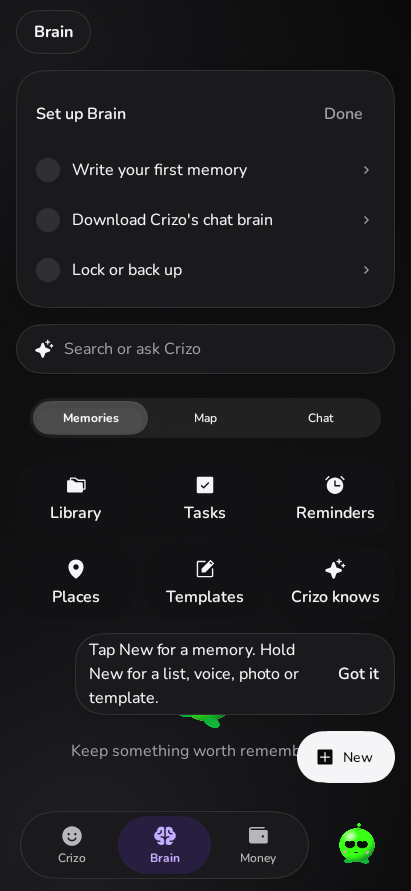
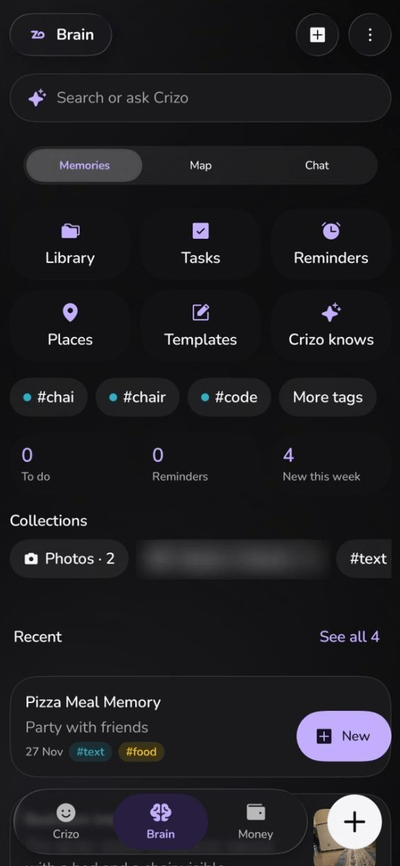
README for 0.10.10: what Crizo is, facts, features, characters, downloads from GitHub Releases, verification and FAQ; full changelog; current screenshots

diff --git a/README.md b/README.md
@@ -1,102 +1,183 @@
-<p align="center"><a href="https://crizo.criza.dev/"><img src="assets/crizo-app-banner.png" alt="Crizo for Android: Brain and Money screens beside Crizo, the green companion" width="100%"></a></p>
+<p align="center"><a href="https://crizo.criza.dev/"><img src="assets/crizo-banner.png" alt="Crizo, a free Android app for memories and money, with Crizo the green companion" width="100%"></a></p>
 
-<h1 align="center">Crizo</h1>
+<h1 align="center">Crizo for Android</h1>
 
-<p align="center"><b>A private Android app for your memories, reminders and money.</b></p>
+<p align="center"><b>A free, private Android app for your memories, reminders and money, with a friendly companion.</b></p>
 
 <p align="center">
+<a href="https://github.com/CRIZA-LABS/crizo-app/releases/latest"><img src="https://img.shields.io/github/v/release/CRIZA-LABS/crizo-app?style=flat-square&labelColor=0e3b2a&color=8af2be&label=Latest" alt="Latest release"></a>
 <a href="https://crizo.criza.dev/download"><img src="https://img.shields.io/badge/Download-Android%2013%2B-8af2be?style=flat-square&labelColor=0e3b2a" alt="Download for Android 13 or newer"></a>
-<a href="https://crizo.criza.dev/changelog"><img src="https://img.shields.io/badge/Version-0.9.9-8af2be?style=flat-square&labelColor=0e3b2a" alt="Version 0.9.9"></a>
-<a href="https://crizo.criza.dev/"><img src="https://img.shields.io/badge/Price-free%20in%20early%20access-8af2be?style=flat-square&labelColor=0e3b2a" alt="Free in early access"></a>
+<a href="https://crizo.criza.dev/"><img src="https://img.shields.io/badge/Price-free-8af2be?style=flat-square&labelColor=0e3b2a" alt="Free"></a>
 <a href="https://crizo.criza.dev/privacy"><img src="https://img.shields.io/badge/Data-on%20device%20only-8af2be?style=flat-square&labelColor=0e3b2a" alt="Data stays on the device"></a>
 </p>
 
 <p align="center">
 <a href="https://crizo.criza.dev/">Website</a> ·
-<a href="https://crizo.criza.dev/download">Download</a> ·
+<a href="https://github.com/CRIZA-LABS/crizo-app/releases/latest">Download APK</a> ·
 <a href="https://crizo.criza.dev/guide">Guides</a> ·
-<a href="https://crizo.criza.dev/changelog">Changelog</a> ·
+<a href="CHANGELOG.md">Changelog</a> ·
 <a href="https://crizo.criza.dev/privacy">Privacy</a> ·
 <a href="https://crizo.criza.dev/terms">Terms</a>
 </p>
 
-## Overview
+## What is Crizo?
 
-Crizo is a free Android app for Android 13 or newer. It records bank and UPI payments from the notifications of the
-apps you choose, turns plain words into reminders and checklists, keeps memories with places and photos, and answers
-questions about your own records. All data is stored on the device: there is no account, no advertising and no
-tracking.
+**Crizo is a free Android app that keeps your memories, reminders and money in one private place on your phone.** It
+saves bank and UPI payments automatically from the notifications of apps you choose, turns plain words like “remind me
+to call mom at 6” into reminders, keeps notes, photos and voice notes with the place they were made, and answers
+questions about your own records. A small companion, also called Crizo, keeps you company and plays games with you.
+Everything is stored on the phone: no account, no ads, no tracking.
 
 Crizo is designed and built by [AbrarAli S.](https://github.com/AbraraliS) and published by
-[Criza Labs](https://criza.dev), a software studio in Gujarat, India. The app is in early access: every feature is
-free, and users who join during early access keep every feature free.
+[Criza Labs](https://criza.dev), a software studio in Gujarat, India.
 
-This repository is the public information page for the app. The source code is not published here.
+| | |
+| --- | --- |
+| **Latest version** | 0.10.10 (version code 29), 27 November 2026 |
+| **Platform** | Android 13 or newer |
+| **Price** | Free, early access. No ads, no in-app purchases |
+| **Size** | About 36 MB; optional on-device AI models download separately on Wi-Fi |
+| **Package name** | `dev.criza.crizo` |
+| **Account** | None needed |
+| **Data** | Stored only on the phone |
+| **Official downloads** | [crizo.criza.dev/download](https://crizo.criza.dev/download) and [GitHub Releases](https://github.com/CRIZA-LABS/crizo-app/releases) |
+| **Source code** | Not published (this repository holds the app's public page and releases) |
 
 ## Features
 
 | Area | What it does |
 | --- | --- |
-| Payment capture | Reads payment alerts only from the bank, UPI or SMS apps you select, on the device. Clear payments are saved automatically; uncertain ones wait for confirmation. |
-| Quick entry | Understands plain input such as “250 lunch at Meghana's” or “1.5k Uber yesterday” and fills in the amount, date, place and category. |
-| Reminders and lists | “Remind me to call mom at 6” becomes a reminder; “buy milk, eggs and bread” becomes a checklist. |
-| Memories | Notes, photos and voice with place, tags and on-device text recognition. Optional search by meaning with an on-device model. |
-| Money overview | Monthly spending, safe to spend per day, budgets with rollover, bills, goals and insights. |
-| Assistant | Answers money questions exactly from your records. An optional AI model runs fully offline on the device. |
-| Widgets | Money, quick capture and upcoming items on the home screen. |
-| Security | Fingerprint lock, optional database encryption and password protected backups to a folder you choose. |
-| Updates | Checks crizo.criza.dev once a day and installs a new version only after you confirm. Each download is verified against a SHA-256 checksum. |
+| **Payment capture** | Reads payment alerts only from the bank, UPI or SMS apps you select, on the device. Clear payments are saved automatically; unclear ones wait for one tap. |
+| **Quick entry** | Understands “450 dinner yesterday” or “1.5k Uber” and fills in amount, date, place and category. |
+| **Money** | Monthly spending, budgets with rollover, bills, goals, people (splits and IOUs), accounts, categories, smart rules and insights. |
+| **Reminders and lists** | “Remind me to pay rent every month at 10am” becomes a repeating reminder; “buy milk, eggs and bread” becomes a checklist. |
+| **Memories** | Notes, checklists, photos and voice notes with place and tags. Text in photos is read on the device. Search forgives typos; optional search by meaning. |
+| **Voice notes** | Record with pause and resume; the words, a title and tags are written down on the phone. |
+| **Places and memory map** | Every memory keeps its place; see them on a map, or see how memories connect in a graph. |
+| **Ask Crizo** | Money questions are answered exactly from your records. An optional AI model runs fully offline on the device. |
+| **Undo, Archive and Bin** | Undo after every delete or archive. Deleted items stay 30 days in the Bin. |
+| **Companion** | Six characters, 27 accessories, daily care, six games. Can float over the phone or rest in the app. |
+| **Security** | Fingerprint lock, optional database encryption, password protected backups to a folder you choose. |
+| **Widgets** | Money, quick capture and upcoming items on the home screen. |
 
 ## Screenshots
 
 <table>
 <tr>
-<td align="center" width="25%"><img src="assets/tab-crizo.png" alt="Crizo tab with the companion's mood, energy and games" width="200"><br><sub>Crizo</sub></td>
-<td align="center" width="25%"><img src="assets/tab-brain.png" alt="Brain tab with search, library, tasks, reminders and places" width="200"><br><sub>Brain</sub></td>
-<td align="center" width="25%"><img src="assets/tab-money.png" alt="Money tab with the month total, review, budgets, bills and goals" width="200"><br><sub>Money</sub></td>
-<td align="center" width="25%"><img src="assets/setup-permissions.png" alt="Permissions step during setup" width="200"><br><sub>Setup</sub></td>
+<td align="center" width="25%"><img src="assets/tab-crizo.png" alt="Crizo tab: the companion resting, with mood, energy, food and love, and the games" width="180"><br><sub>Crizo</sub></td>
+<td align="center" width="25%"><img src="assets/tab-money.png" alt="Money sections: budgets, bills, goals, people, accounts, categories, rules, review, import, capture and Bin" width="180"><br><sub>Money</sub></td>
+<td align="center" width="25%"><img src="assets/quick-add.png" alt="Quick add a payment in plain words, with spent, received and transfer" width="180"><br><sub>Quick add</sub></td>
+<td align="center" width="25%"><img src="assets/tab-brain.png" alt="Brain: search, library, tasks, reminders, places, templates and collections" width="180"><br><sub>Brain</sub></td>
+</tr>
+<tr>
+<td align="center"><img src="assets/memory.png" alt="A memory with a photo described on the device, its place and tags" width="180"><br><sub>Memory</sub></td>
+<td align="center"><img src="assets/games.png" alt="Six games: Catch, Hide-and-seek, Ball, Treat Toss, Balloon Pop and Tickle" width="180"><br><sub>Games</sub></td>
+<td align="center"><img src="assets/customize.png" alt="Customize: moods, size, jelly bounce, colours and energy" width="180"><br><sub>Customize</sub></td>
+<td></td>
 </tr>
 </table>
 
-## Installation
+## Characters
 
-1. Open [crizo.criza.dev/download](https://crizo.criza.dev/download) on an Android phone and download the APK.
-2. Allow installs from your browser when Android asks. If Google Play Protect asks, choose *Scan app* or
-   *Install anyway*.
-3. Open Crizo and allow the permissions you want: notifications, location, on-time reminders and payment alerts.
+<p align="center"><img src="assets/characters.png" alt="The six Crizo characters: Crizo, Kiko, Momo, Bolt, Mochi and Wisp" width="100%"></p>
 
-If Android shows **Restricted setting** when you allow payment alerts, open *App info* for Crizo, tap the menu at the
-top right, choose *Allow restricted settings*, and allow access again. The
-[installation guide](https://crizo.criza.dev/guide/install-and-update) covers each step.
+| Character | Personality |
+| --- | --- |
+| Crizo | Playful and bouncy, loves to climb and dance |
+| Kiko | Calm and curious, floats, thinks and sits with you |
+| Momo | Sleepy and cuddly, naps in sunny spots and sits close |
+| Bolt | Eager little robot, always busy and on the move |
+| Mochi | Bouncy jelly, hops everywhere and loves to dance |
+| Wisp | Quiet and dreamy, drifts about and naps on the ceiling |
 
-## Requirements
+Each character can wear 27 accessories, from a party hat to a Viking helmet. See the
+[characters and outfits guide](https://crizo.criza.dev/guide/characters-and-outfits).
 
-- Android 13 or newer
-- About 40 MB of storage for the app; optional AI models are downloaded separately on Wi-Fi
+## Download and install
 
-## Privacy
+**Option 1: website.** Open [crizo.criza.dev/download](https://crizo.criza.dev/download) on your phone.
 
-Crizo processes everything on the device. Criza Labs does not run a server that receives your memories, messages or
-financial data. See the [privacy policy](https://crizo.criza.dev/privacy) and [terms of use](https://crizo.criza.dev/terms).
+**Option 2: GitHub Releases.** Download `crizo-<version>.apk` from the
+[latest release](https://github.com/CRIZA-LABS/crizo-app/releases/latest). Older versions are kept in
+[all releases](https://github.com/CRIZA-LABS/crizo-app/releases).
+
+**Option 3: automatic updates with Obtainium.** In [Obtainium](https://github.com/ImranR98/Obtainium), add the app
+URL `https://github.com/CRIZA-LABS/crizo-app`. Crizo also checks crizo.criza.dev once a day and offers new versions
+itself, so you do not need Obtainium to stay up to date.
+
+Then:
+
+1. Allow installs from your browser or file manager when Android asks. If Google Play Protect asks, choose
+   *Scan app* or *Install anyway*.
+2. Open Crizo and allow only the permissions you want.
+3. If Android shows **Restricted setting** when you allow payment alerts, open *App info* for Crizo, tap the menu at
+   the top right, choose *Allow restricted settings*, and allow access again.
+
+The [installation guide](https://crizo.criza.dev/guide/install-and-update) covers each step.
+
+### Verify a download
+
+Every release lists the APK's SHA-256 checksum, and all versions are signed with the same key.
+
+| | |
+| --- | --- |
+| Signing certificate SHA-1 | `0E:73:A3:80:3B:7A:B3:AE:2C:40:4A:31:5C:DF:C2:16:C2:08:D4:D7` |
+
+```sh
+sha256sum crizo-0.10.10.apk
+```
+
+Compare the result with the checksum in the release notes. Android refuses an update signed with a different key.
+
+## Guides
+
+- [Getting started](https://crizo.criza.dev/guide/getting-started)
+- [Install, permissions and updates](https://crizo.criza.dev/guide/install-and-update)
+- [How payment capture works](https://crizo.criza.dev/guide/payment-capture)
+- [Ask Crizo about your own life](https://crizo.criza.dev/guide/ask-crizo)
+- [Characters, outfits and games](https://crizo.criza.dev/guide/characters-and-outfits)
+- [Undo, Archive and the Bin](https://crizo.criza.dev/guide/undo-archive-bin)
+- [Voice notes, places and the memory map](https://crizo.criza.dev/guide/voice-notes-and-places)
+- [Widgets and shortcuts](https://crizo.criza.dev/guide/widgets-and-shortcuts)
 
 ## Frequently asked questions
 
+**What is Crizo?**
+A free Android app by Criza Labs for memories, reminders and money, with a companion. It saves bank and UPI payments
+automatically and keeps all data on the phone.
+
 **Is Crizo free?**
-Yes. Every feature is free during early access, and early users keep every feature free.
+Yes. Crizo is free in early access, with no ads and no in-app purchases. Early users keep every feature free.
 
-**Is Crizo available on Google Play?**
-Not yet. The official download is [crizo.criza.dev](https://crizo.criza.dev/download), and the app updates itself
-from there.
+**Is Crizo safe to install from GitHub or the website?**
+Yes, when you download from crizo.criza.dev or this repository's releases. Each APK is signed with the same key and
+listed with its SHA-256 checksum, so you can check the file is the original.
 
-**Does Crizo upload my bank messages?**
-No. Payment alerts are read on the device, only from the apps you select.
+**Is Crizo on Google Play?**
+Not yet. Download it from [crizo.criza.dev](https://crizo.criza.dev/download) or
+[GitHub Releases](https://github.com/CRIZA-LABS/crizo-app/releases/latest). The app updates itself.
+
+**Does Crizo upload my bank messages or payments?**
+No. Payment alerts are read on the phone, only from the apps you select. Criza Labs has no server that receives your
+data.
+
+**Does Crizo work offline?**
+Yes. It uses the internet only for downloads you choose (the optional AI model, map squares) and the daily update
+check.
+
+**Which phones does Crizo support?**
+Android phones running Android 13 or newer.
+
+**Can I get an older version?**
+Yes. Every published version is in [Releases](https://github.com/CRIZA-LABS/crizo-app/releases). To go back, uninstall
+first: Android does not install an older version over a newer one.
 
 **How do I report a bug or suggest a feature?**
 Write to [crizo@criza.dev](mailto:crizo@criza.dev), or use *Settings › About › Send feedback* in the app.
 
 ## Custom apps
 
-Criza Labs builds Android apps, websites and AI automation for businesses. To discuss a custom app, visit
+Criza Labs builds Android apps, websites and AI automation for businesses. See
 [criza.dev/services/mobile-app-development](https://criza.dev/services/mobile-app-development) or
 [contact Criza Labs](https://criza.dev/contact).
 
@@ -109,4 +190,4 @@ Criza Labs builds Android apps, websites and AI automation for businesses. To di
 
 ---
 
-<sub>© 2026 Criza Labs. Crizo, its name, character and artwork belong to Criza Labs. All rights reserved.</sub>
+<sub>© 2026 Criza Labs. Crizo, its name, characters and artwork belong to Criza Labs. All rights reserved. The APK files in Releases are provided for installing the app; redistribution is not permitted without permission.</sub>

diff --git a/CHANGELOG.md b/CHANGELOG.md
@@ -1,0 +1,137 @@
+# Crizo changelog
+
+Every published version of Crizo for Android, newest first. Download any of them from
+[Releases](https://github.com/CRIZA-LABS/crizo-app/releases); the latest is always at
+[crizo.criza.dev/download](https://crizo.criza.dev/download).
+
+##  (Invalid Date)
+
+- 
+
+## 0.10.10 (27 November 2026)
+
+- Archive and Undo work from every page: archive or delete a memory and Undo shows right away, wherever you are.
+- Archived memories are kept in Brain, Library, Archive. Open one and tap Unarchive to bring it back.
+
+## 0.10.9 (27 November 2026)
+
+- New Bin: anything you delete in Brain or Money stays 30 days. Undo right away, or restore it from the Bin.
+- Find the Bin in Settings, the ⋯ menu, Brain's Library and Money's Sections.
+
+## 0.10.8 (26 November 2026)
+
+- The Places map loads its map squares again.
+- Memories save your exact place now. Turn it off in Settings, Privacy.
+- Every new memory gets its place when location is on: typed, photo, voice, list or from chat.
+- The memory map graph is drawn by Crizo himself, so it shows on every phone. Pinch to zoom, tap to open.
+- Voice notes: record your own voice with pause and resume, play it back in the memory, and Crizo writes the words, a title and tags on your phone.
+- Delete, Archive, Share, Pin and the other actions in a memory are clear buttons now, not tags.
+- Chat shows Crizo thinking when you ask about a memory.
+- Tap Crizo on his tab to dress him up. Hold him to hear hello.
+- No ad services or advertising ID in the app.
+
+## 0.10.7 (26 November 2026)
+
+- Undo works everywhere in memories: Undo and Redo buttons in the editor, and Undo after swiping, deleting, archiving, moving or merging stays in view.
+- The memory editor has a full toolbar: headings, bold, italic, underline, strikethrough, lists, quote, link, checklist, voice, photo, camera and tag, with bigger buttons.
+- Crizo suggests a reminder when a memory names a time, adds tags you already use, and sums up long memories in one line. All on your phone.
+- Auto tags are accurate: no more stray #code, and only words the memory really talks about.
+- The memory map graph draws again, and tapping a memory opens it.
+- Swipe between tabs in the memory map and in chat history.
+- Play and the bedtime story in Extras work for every character, and say why if they cannot play.
+- Empty Trash in one tap, a clear button in search, and the Sticker book is gone.
+
+## 0.10.6 (25 November 2026)
+
+- Collections in Brain: your memories are grouped automatically by tag, place, photos, voice notes and lists. Tap one to see them together.
+- Tidy up: Crizo spots memories that say the same thing and payments saved twice, and merges them when you say so. Merged memories go to Trash, payments can be undone.
+
+## 0.10.5 (25 November 2026)
+
+- Kiko, Momo, Bolt, Mochi and Wisp are redrawn: shaded and glossy, with arms, feet, tails and little details, and clearer faces for every mood.
+- Ears and antennae now sway with the body instead of sliding with the feet.
+- Colour skins match their names on every character: Sky is sky blue on Kiko, Momo and Bolt alike, and Wisp takes a soft tint.
+- Hats, ears and antennae are no longer cut off at the top: every outfit now shows in full on every character.
+- Switching characters no longer flashes the old Crizo for a moment.
+
+## 0.10.4 (25 November 2026)
+
+- Spin or shake your character and it gets properly dizzy: swirly eyes and stars circling its head.
+- Characters look 3D now, with soft light and shade in their own colours, and are much sharper. The green outline on every character is gone.
+- Wear several accessories at once: a hat, glasses, a scarf and a hair clip. Browse them by category, or pick a ready-made Combo.
+- Snack time and pet time use your live character: it watches the snack, chomps with crumbs, and floats hearts where you stroke.
+- Settings previews play their sound, and the preview Crizo stays in view while you scroll.
+- Tabs land on the one you tapped, even when tapping quickly, and swiping is equally easy both ways.
+- The + button shows only with the tab bar. The menu has Ask Crizo, Extras and Sticker book.
+- The hold menu can add a voice note, a photo memory or a payment, or ask Crizo, from anywhere.
+- Classic look applies to Crizo only.
+
+## 0.10.3 (25 November 2026)
+
+- The hold menu has a new Add memory action you can put on it, opening the app straight to a new memory. Feed and pet lines now fit each character.
+- Daily care: feed your character a snack (each one has a favourite), stroke it until it is in love, and play a game. Doing all three grows your care streak.
+- Finger play: tickle with small wiggles to make your character giggle, shake it for a dizzy reaction that grows if you keep going, or draw circles to spin it. Each character reacts in its own words and voice.
+- Extras page refreshed, and the old duplicate daily gift removed.
+- New Sticker maker: your character, in its outfit, with the face and words you choose. Send it in any chat or save it to Photos.
+- The home screen widget, chat and mini-game icons now show the character you picked.
+- Each character has its own cute voice: Kiko coos, Momo mews and purrs, Bolt beeps, Mochi bloops and Wisp hums.
+- Sound previews work on the first tap, and Room echo now works with every voice.
+- Silent, vibrate and Do Not Disturb always win: Crizo makes no sound then, and the Sounds page tells you why.
+- The centre button is now Add: a memory, list, voice note, photo or payment in one tap. Wake and rest Crizo from the same sheet.
+- Easier Settings: movement lives in Customize, and Quiet hours switches on right in the list. Demos play on Crizo where you can see him.
+- Tap your character on the Crizo tab or in Customize to hear it say hello.
+- Four new companions: Momo the sleepy cat, Bolt the busy robot, Mochi the bouncy jelly and Wisp the dreamy ghost. Each one looks and behaves in its own way.
+- 16 new accessories, 27 in all, from halos and bunny ears to a Viking helmet. Every accessory now fits every character, and the headphones sit properly on the sides of the head.
+- Shop items now show your character wearing each one, so you see exactly how it looks.
+- Security: with the private lock on, Crizo blocks screenshots and hides its preview in recent apps. Modified copies of the app are detected.
+- Customize is now a dressing room: Crizo stays big on stage while you change his character, look, outfits and moves in tabs below. Open it from Customize on Crizo's card.
+- Every accessory shows its own icon, and early users can wear them all.
+- A daily surprise from Crizo: a memory from this day, his adventure postcard, a gift sticker or a moment to write something down.
+- Google Drive backup is paused for now. Save backup can still go to your Drive through the file picker.
+- Meet Kiko: a new, sky-blue companion who is calm and curious. He floats, thinks and keeps you company. Pick him in Crizo Shop, Characters.
+
+## 0.10.2 (25 November 2026)
+
+- Places map: see your memories as pins on a real map (Brain, Places, Map). Only map squares load from the internet; your memories stay on the phone.
+- Crizo has moods now: after you chat, or while charging, his on-phone brain picks a mood for the next few hours (playful, calm, caring, curious or sleepy), and he behaves that way.
+
+## 0.10.1 (25 November 2026)
+
+- Memories: headings, underline and strikethrough, Find in memory with next and previous, drag checklist items into any order, and Share, Copy text and created/edited info in the menu.
+- Crizo Shop in Crizo's page: name your companion, and dress him in 8 new accessories (crown, beanie, cap, top hat, headphones, sunglasses, bow tie, flower). Earn some with your streak and stickers.
+- A cleaner, more premium look: proper icons instead of emoji across Brain, Money and Chat.
+- Setup now also helps with battery (so Crizo keeps floating and reminders arrive on time) and with in-app updates.
+- Google Drive backup in Settings, Backup: a hidden, encrypted copy in your own Drive, daily while charging if you like. Crizo never sees your other Drive files.
+- Smarter chat: Crizo finds the right memories by meaning as well as words, understands yesterday, last week or in October, and shows when each memory was saved.
+- Answers come first and stay grounded in your notes and money. If something is not in your notes, Crizo says so instead of guessing.
+- Plain-words actions understand amounts like 1.2k or ₹450, Hinglish like kal raat, and use the amount you typed.
+- Payments sort into categories more accurately, with Indian shops and apps.
+- Tapping the update notification starts the update straight away.
+- Send feedback writes the email for you, with your Crizo and Android version and phone model, so problems get fixed faster. Never your memories or money.
+- Share Crizo in About sends a friend the link.
+- After five days, Crizo asks once how it is going. Love it, share it; anything else goes straight to me.
+
+## 0.10.0 (24 November 2026)
+
+- Smoother tabs: swiping no longer redraws the whole app halfway, and tapping a tab glides straight there.
+- The Crizo button is your quick actions: tap for a new memory, list, voice, photo, payment or Ask Crizo. Hold it to wake or rest Crizo.
+- Quick entry has its own Save button inside the box, and the keyboard's Done key saves too.
+- The hold menu on New and Add closes by itself when you let go.
+- A short first-run tour with Skip, shown once.
+- Optional, anonymous usage statistics, off unless you turn them on in Settings, Privacy. Never your memories, money or messages.
+
+## 0.9.9 (24 November 2026)
+
+- Tabs: tapping Crizo, Brain or Money always switches now, even mid-swipe, and the bar always matches the screen. Fixes tabs getting stuck.
+- Money: the section bar floats like the rest of the app, and pages scroll beneath it.
+- Meaning search and chat model downloads work on every Wi-Fi network (some home and hotspot Wi-Fi counted as metered), with Waiting for Wi-Fi, Download failed and Retry.
+- Setup: Payment alerts are part of the first-run permissions, with steps for Android’s Restricted setting. The same steps show in Money capture and Notification settings.
+- Unlock & support: the note asks for your email, so your code can reach you. Codes usually unlock everything.
+- Early access: everyone who starts now keeps every feature free, even if some become paid later.
+- Privacy policy and Terms are linked in About and on the first screen. Feedback goes to crizo@criza.dev.
+- What’s new: after each update, Crizo shows what changed, with a link to the full changelog.
+
+## 0.9.8 (24 November 2026)
+
+- Updates download and install from inside the app.
+- Smoother tabs and sheets, Crizo colours and a simpler Unlock & support.
